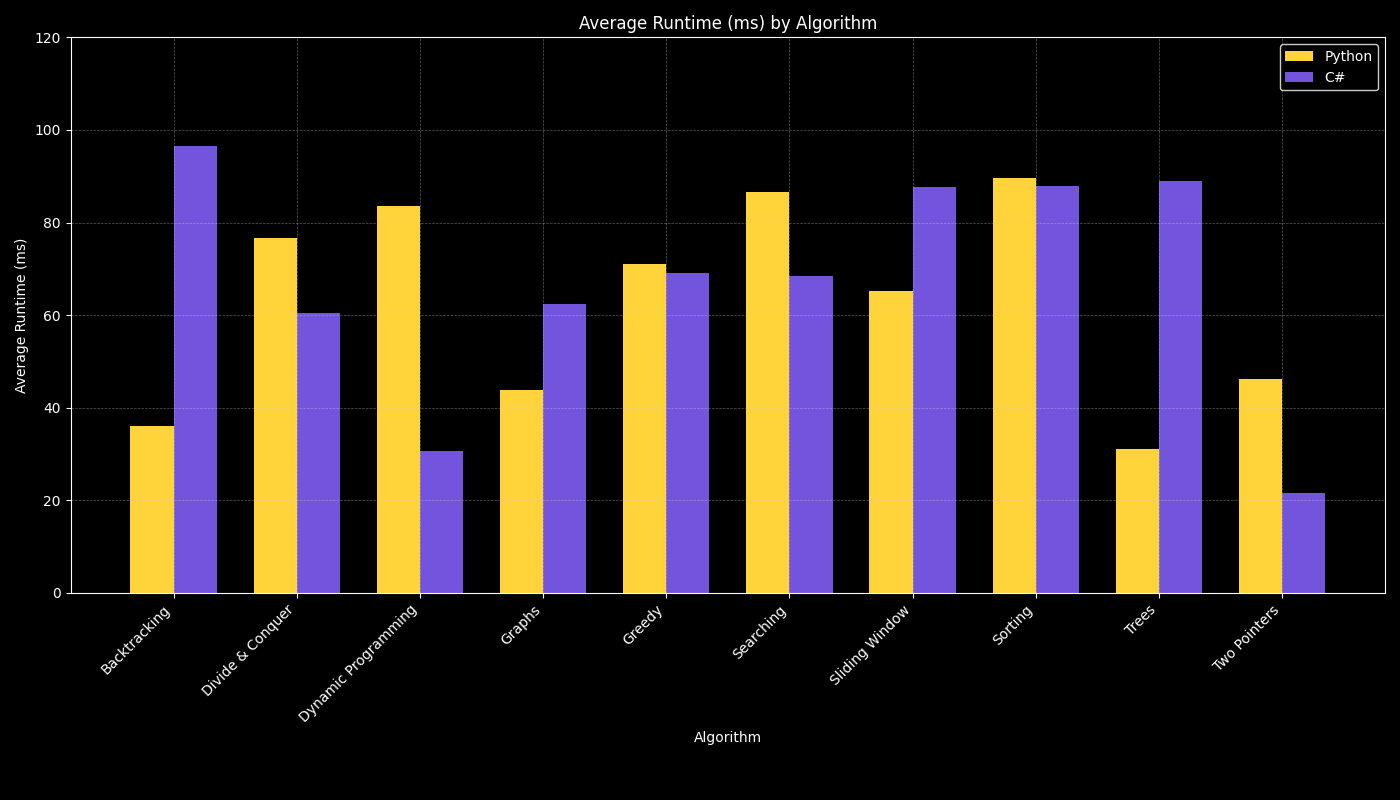
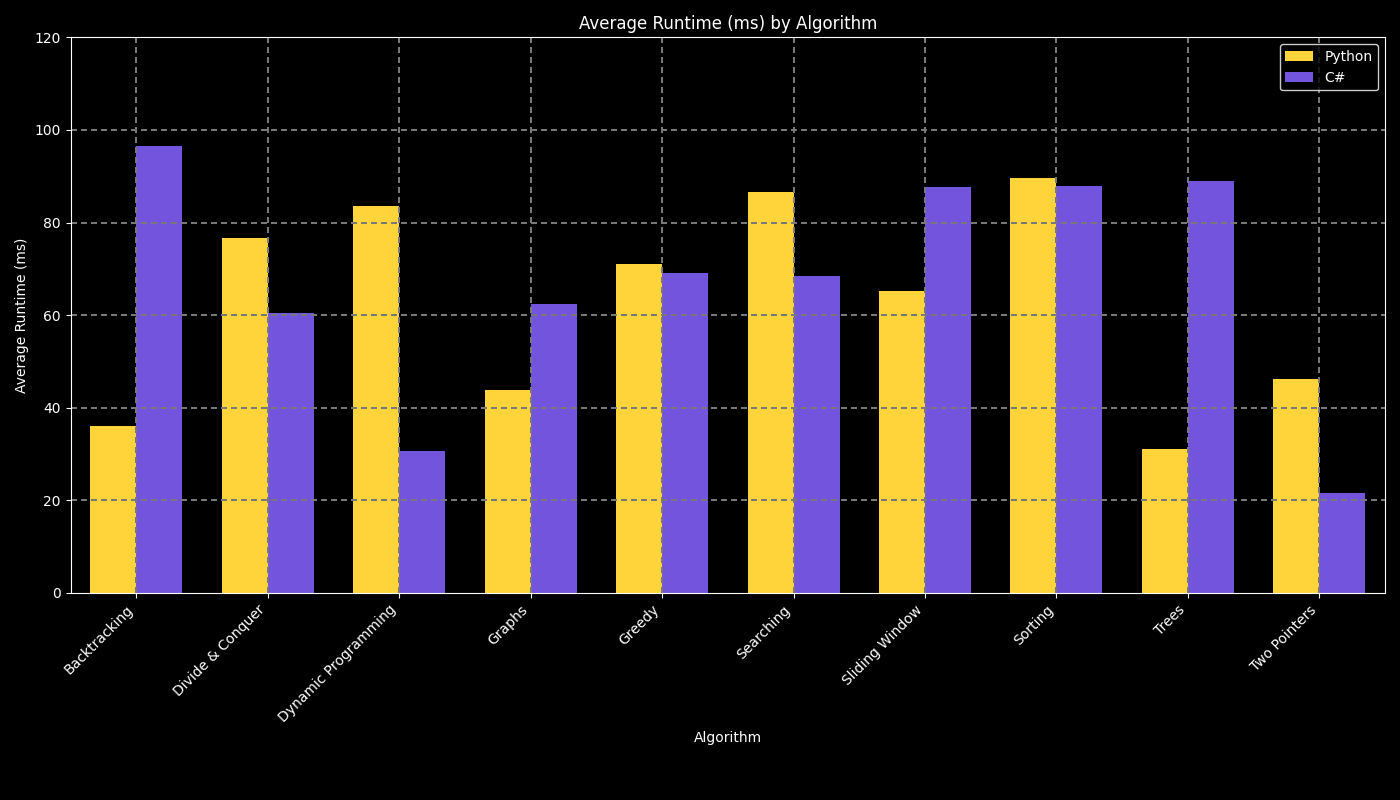
update visualizations

diff --git a/visualization.py b/visualization.py
@@ -17,12 +17,25 @@ memory_data = pd.read_excel(
 )
 
 def create_bar_graph(x, y1, y2, labels, title, y_label, filename, note, y_ticks, include_note):
-    fig = plt.figure(figsize=(14, 8), facecolor='black')
+    fig = plt.figure(figsize=(14, 8), dpi=100, facecolor='black')
     ax = fig.add_subplot(111)
     ax.set_facecolor('black')
     
     bar_width = 0.35
     index = range(len(x))
+    x_ticks = [i + bar_width / 2 for i in index]
+
+    full_y_ticks = list(y_ticks)
+    if len(full_y_ticks) < 2:
+        raise ValueError('y_ticks must contain at least two values')
+
+    y_tick_interval = full_y_ticks[-1] - full_y_ticks[-2]
+    if y_tick_interval <= 0:
+        raise ValueError('y_ticks must be strictly increasing')
+
+    max_bar_value = max(max(y1), max(y2))
+    while full_y_ticks[-1] <= max_bar_value:
+        full_y_ticks.append(full_y_ticks[-1] + y_tick_interval)
     
     ax.bar(index, y1, bar_width, label='Python', color='#FFD43B')
     ax.bar([i + bar_width for i in index], y2, bar_width, label='C#', color='#7355dd')
@@ -30,20 +43,38 @@ def create_bar_graph(x, y1, y2, labels, title, y_label, filename, note, y_ticks,
     ax.set_xlabel(labels['x_label'], color='white')
     ax.set_ylabel(y_label, color='white')
     ax.set_title(title, color='white')
-    ax.set_xticks([i + bar_width / 2 for i in index], x, rotation=45, ha="right")
-    ax.set_yticks(y_ticks)
+    ax.set_xticks(x_ticks, x, rotation=45, ha="right")
+    ax.set_xlim(x_ticks[0] - 0.5, x_ticks[-1] + 0.5)
+    ax.set_yticks(full_y_ticks)
+    ax.set_ylim(full_y_ticks[0], full_y_ticks[-1])
     ax.tick_params(colors='white')
     ax.legend(loc='upper right', facecolor='black', edgecolor='white', labelcolor='white')
     
-    ax.grid(axis='both', linestyle='--', linewidth=0.5, color='#C8C8C8', alpha=0.45)
+    # Use one opaque 2 px stroke for every grid line.
+    grid_style = dict(
+        color='#787878',
+        linestyle=(0, (3, 2)),
+        linewidth=1.44,
+        alpha=1.0,
+        antialiased=True,
+        snap=True,
+        dash_capstyle='butt',
+        zorder=3
+    )
+    for x_tick in x_ticks:
+        ax.axvline(x_tick, ymin=0, ymax=1, **grid_style)
+    for y_tick in full_y_ticks[1:-1]:
+        ax.axhline(y_tick, xmin=0, xmax=1, **grid_style)
+
     for spine in ax.spines.values():
         spine.set_color('white')
+        spine.set_zorder(4)
 
     fig.tight_layout(rect=[0, 0.05, 1, 1])
     if include_note:
         fig.text(0.5, 0.01, note, wrap=True, horizontalalignment='center', fontsize=8, color='white')
     
-    fig.savefig(filename, facecolor=fig.get_facecolor())
+    fig.savefig(filename, facecolor=fig.get_facecolor(), dpi=100)
     plt.close(fig)
 
 problems = [39, 46, 78, '53*', 169, '240*', 70, 198, '300*', '200*', 733, 994, '55*', 406, '452*', 33, 374, 704, 3, 438, 567, 56, 57, '912A*', '912B*', 94, 144, 230, '11*', '15*', '344*']
